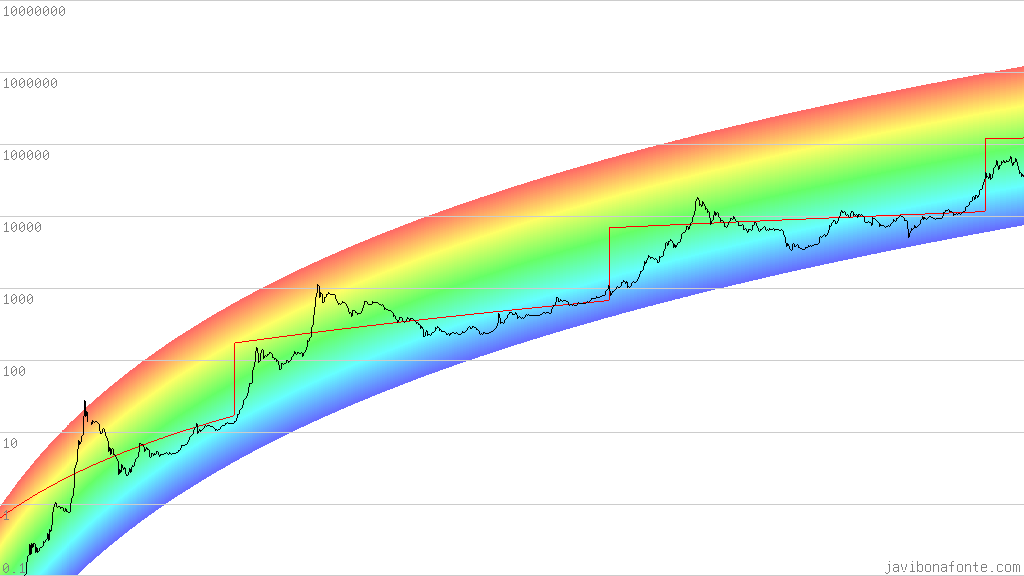
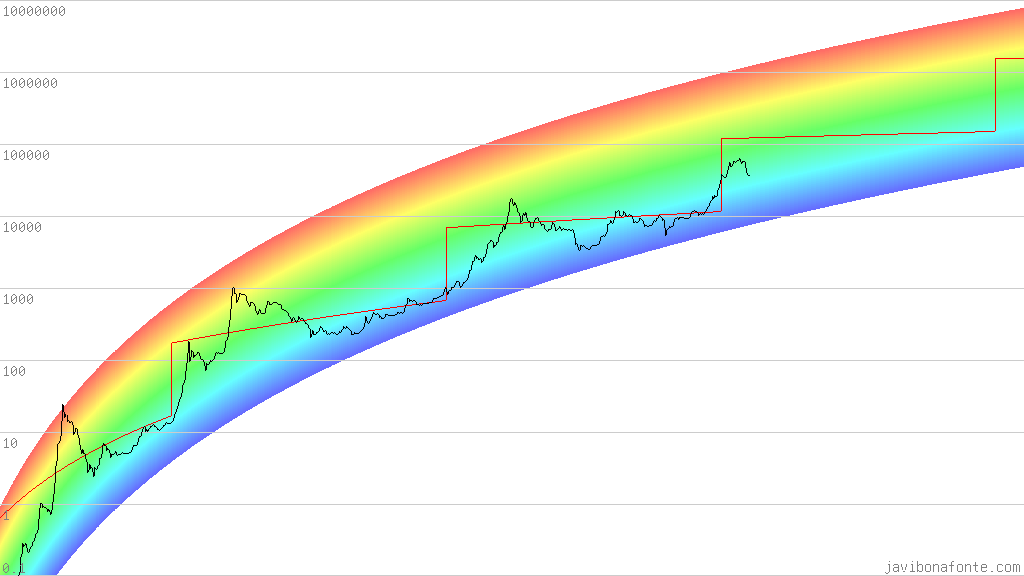
When painting price, the average of the prices between 2 points is painted

diff --git a/src/btc-charts.c b/src/btc-charts.c
@@ -5,7 +5,6 @@
  *
  * TODO
  *  - separate chart code from csv file code
- *  - when skipping days of price, paint the average of skipped days
  *  - use bitcoinity data for stock to flow
  */
 
@@ -67,7 +66,7 @@ int get_num_lines (FILE *fp) {
 
 /**
  * Returns average price of all the availble exchanges prices in one row of
- * the Bitcoin CSV file.
+ * the Bitcoin CSV file or -1 if no price is found.
  *
  * (Specific to 'bitcoinity_data.csv')
  */
@@ -323,16 +322,43 @@ int paint_sf_model (struct chart_cfg cfg) {
 }
 
 /**
+ * Returns average price between 'row_a' and 'row_b' (including both
+ * 'row_a' and 'row_b').
+ */
+float get_avg_price (struct row *rows, int row_a, int row_b) {
+
+    float price, avg_price = 0;
+    int null_prices = 0, num_prices;
+
+    for (int row = row_a + 1; row <= row_b; row++) {
+
+        price = rows[row].price;
+
+        if (price > 0) // If the row has a file...
+            avg_price += rows[row].price;
+        else
+            null_prices++;
+
+    }
+
+    num_prices = row_b - row_a - null_prices;
+
+    if (avg_price <= 0 || num_prices <= 0)
+        return -1;
+
+    return avg_price / (row_b - row_a - null_prices);
+}
+
+/**
  *
  */
-int paint_price (struct row *rows, int num_rows,
-        struct chart_cfg cfg) {
+int paint_price (struct row *rows, int num_rows, struct chart_cfg cfg) {
 
     int code = 0;
 
     cfg.min_y = apply_scale (cfg.scale, cfg.min_y);
     cfg.max_y = apply_scale (cfg.scale, cfg.max_y);
-    int row, x, j, prev_j;
+    int row, prev_row = 0, x, j, prev_j;
     double price;
 
     for (x = 0; x < cfg.w; x++) {
@@ -341,7 +367,8 @@ int paint_price (struct row *rows, int num_rows,
             / cfg.w + cfg.min_x - DAYS_FROM_GEN;
 
         if (row < num_rows)
-            price = apply_scale (cfg.scale, rows[row].price);
+            price = apply_scale (cfg.scale,
+                    get_avg_price(rows, prev_row, row));
         else
             price = -1;
 
@@ -356,6 +383,8 @@ int paint_price (struct row *rows, int num_rows,
 
             prev_j = j;
         }
+
+        prev_row = row;
     }
 
     return code;
@@ -481,7 +510,7 @@ int main (int argc, char *argv[]) {
     //float max_price = get_max_price (rows, num_rows);
 
     struct chart_cfg cfg = get_chart_cfg (num_rows,
-            logarithmic, 1, 1, 1, 0);
+            logarithmic, 1, 1, 1, 4 * 365);
 
     // Generates image
     code = generate_img (rows, num_rows, cfg);
